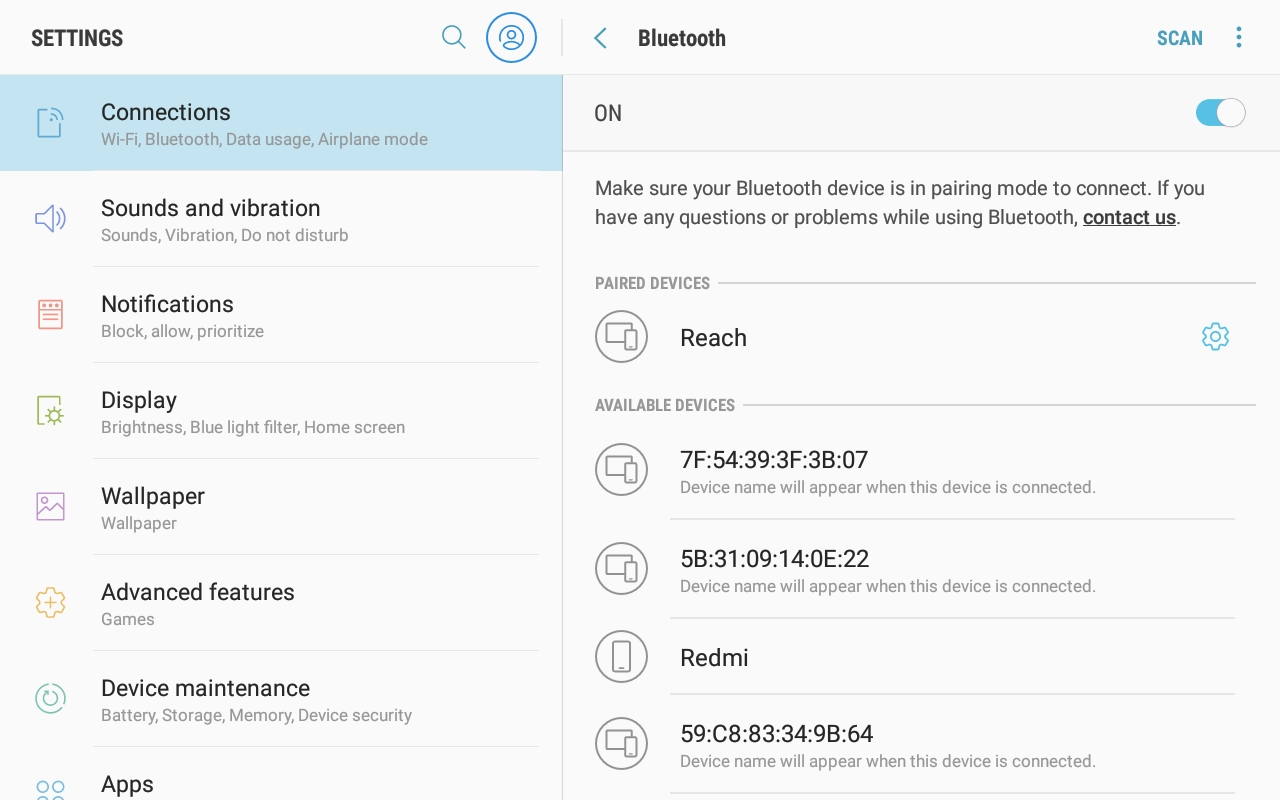
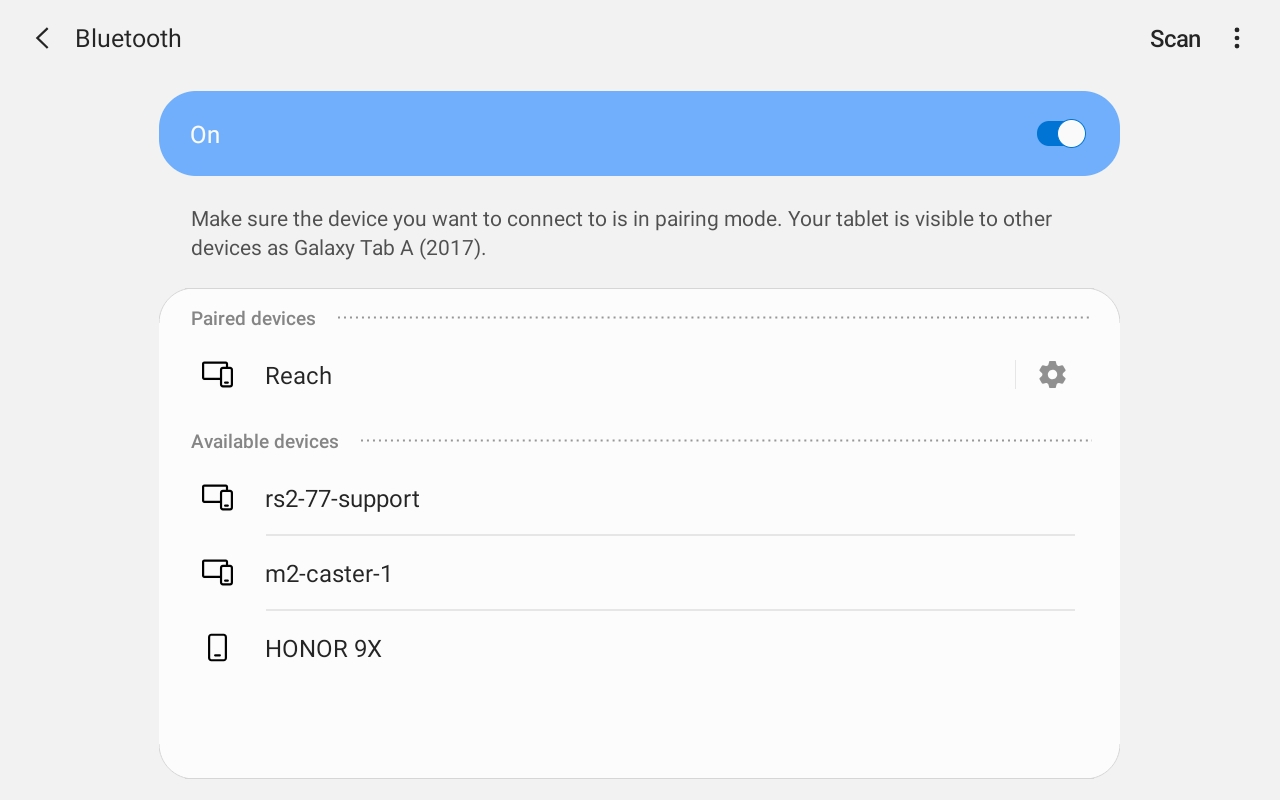
docs: reach: common: tutorials: mock-location.md: fix the text and images

diff --git a/docs/reach/common/tutorials/mock-location.md b/docs/reach/common/tutorials/mock-location.md
@@ -30,48 +30,48 @@ Make sure your Android device provides Bluetooth connectivity.
 Configure Reach unit to act as a rover in RTK.
 
 ??? note "Getting corrections from Reach RS2 base on Reach RS2 rover"
-	Set up RTK communication between 2 Reach RS2 units over LoRa radio [following this video guide](https://youtu.be/-K32ayVmH6U).
+	Set up RTK communication between 2 Reach RS2 units over LoRa radio following this [video guide](https://youtu.be/-K32ayVmH6U).
 
 ??? note "Getting corrections from Reach RS+ base on Reach RS+ rover"
-	Set up RTK communication between 2 Reach RS+ units over LoRa radio [following this video guide](https://youtu.be/4GfUDoDwEAE). 
+	Set up RTK communication between 2 Reach RS+ units over LoRa radio following this [video guide](https://youtu.be/4GfUDoDwEAE). 
 
 ??? note "Getting corrections from NTRIP/CORS"
 	Configure NTRIP/CORS network as a source of positioning corrections for:
 
 	* [Reach RS2 rover](https://docs.emlid.com/reachrs2/ntrip-workflow/)
-	* [Reach M+ or Reach RS/RS+ rover](../quickstart/ntrip-workflow.md)
+	* [Reach M+](../quickstart/ntrip-workflow.md) or [Reach RS/RS+](../quickstart/ntrip-workflow.md) rover 
 
 ###Pairing Reach with an Android device
 
-**Access Reach rover using ReachView**
+**Access Reach rover using ReachView 3**
 
 ??? note "Connecting to Reach with iOS/Android device"
 
-	1. Get the app from [Google Play](https://play.google.com/store/apps/details?id=com.reachview) or [Apple Store](https://itunes.apple.com/us/app/reachview/id1295196887?mt=8)
-	2. Go to Wi-Fi settings on your device
+	1. Get the app from [Google Play](https://play.google.com/store/apps/details?id=com.emlid.reachview3) or [Apple Store](https://apps.apple.com/us/app/reachview-3/id1463967138)
+	2. Go to *Wi-Fi settings* on your device
 	3. Connect to Reach hotspot. It appears as **reach:XX:XX**
 	4. Enter password **emlidreach**
-	5. Launch ReachView app
+	5. Launch the ReachView 3 app
 	6. Choose Reach from the list
 
 ??? note "Connecting via a web browser from any device"
 
-	1. Go to Wi-Fi settings on your device
+	1. Go to *Wi-Fi settings* on your device
 	2. Connect to Reach hotspot. It appears as **reach:XX:XX**
 	3. Enter password **emlidreach**
 	4. Launch a web browser (we recommend using Chrome or Mozilla)
 	5. Go to 192.168.42.1
 
-* Open **Bluetooth** configuration screen, enable Bluetooth connection and set on the *Always discoverable*
+* Open the *Bluetooth* configuration screen, enable Bluetooth connection and set on *Always discoverable*
 
-<p style="text-align:center"><img src="../img/reach/mock-location/enable-bt.png" style="width: 800px;"/></p>
+<p style="text-align:center"><img src="../img/reach/mock-location/enable-bt.png" style="height: 550px;"/></p>
 
 !!! note ""
 	Reach name is displayed just above its MAC. In this guide, we used the unit named as **Reach**.
 
 **Access an Android device**
 
-* Navigate to the Bluetooth configuration screen. Activate the Bluetooth connection
+* Navigate to the *Bluetooth* configuration screen. Activate the Bluetooth connection
 
 * Wait for Reach to be listed as an available device
 
@@ -80,17 +80,11 @@ Configure Reach unit to act as a rover in RTK.
 
 <p style="text-align:center"><img src="../img/reach/mock-location/bt-scanning.jpg" style="width: 800px;"/></p>
 
-**Back to the ReachView app**
+* Tap the name of your Reach in the list of available devives on the Android device
 
-* You should now be able to see your Android device listed as an available device. In this guide, we used a device named as **Galaxy Tab A (2017)**
+* You should receive a pairing request from Reach
 
-<p style="text-align:center"><img src="../img/reach/mock-location/discoverable-devices.png" style="width: 800px;"/></p>
-
-* Tap the name of the Android device in ReachView
-
-**Back to the Android device**
-
-* You should receive a pairing request from Reach. Confirm it
+* Enter the PIN code of your Reach unit and confirm it
 
 <p style="text-align:center"><img src="../img/reach/mock-location/pairing-request.jpg" style="width: 800px;"/></p>
 
@@ -100,18 +94,18 @@ Reach and Android device are now paired:
 
 <p style="text-align:center"><img src="../img/reach/mock-location/android-paired.jpg" style="width: 800px;"/></p>
 
-<p style="text-align:center"><img src="../img/reach/mock-location/reachview-paired.png" style="width: 800px;"/></p>
+<p style="text-align:center"><img src="../img/reach/mock-location/reachview-paired.png" style="height: 550px;"/></p>
 
 ### Position output from Reach to Android
 
-* In ReachView app, navigate to the **Position output** screen
+* In the ReachView 3 app, navigate to the *Position output* screen
 
 * Activate *Output 1*, set it to BT and select solution output format to NMEA. After that, click the *Apply* button
 
-<p style="text-align:center"><img src="../img/reach/mock-location/position-output.png" style="width: 800px;"/></p>
+<p style="text-align:center"><img src="../img/reach/mock-location/position-output.png" style="height: 550px;"/></p>
 
 !!! note ""
-	You might see an error message **Send error (111)**  in some cases. This is fine as long as there is no client connected to the NMEA stream yet.
+	You might see an error message **Send error (111)** in some cases. This is fine as long as there is no client connected to the NMEA stream yet.
 
 ### Android mock location
 
@@ -124,7 +118,7 @@ Besides being an NTRIP Client, this app also allows NMEA data input via Bluetoot
 
 * Install the app [Lefebure NTRIP Client](https://play.google.com/store/apps/details?id=com.lefebure.ntripclient) in your Android device
 
-* Open *Developer Options* on your Android device and choose *Lefebure NTRIP Client* in *Select mock location app* field
+* Open *Developer Options* on your Android device and choose *Lefebure NTRIP Client* in the *Select mock location app* field
 
 <p style="text-align:center"><img src="../img/reach/mock-location/developer-options.jpg" style="width: 800px;"/></p>
 
